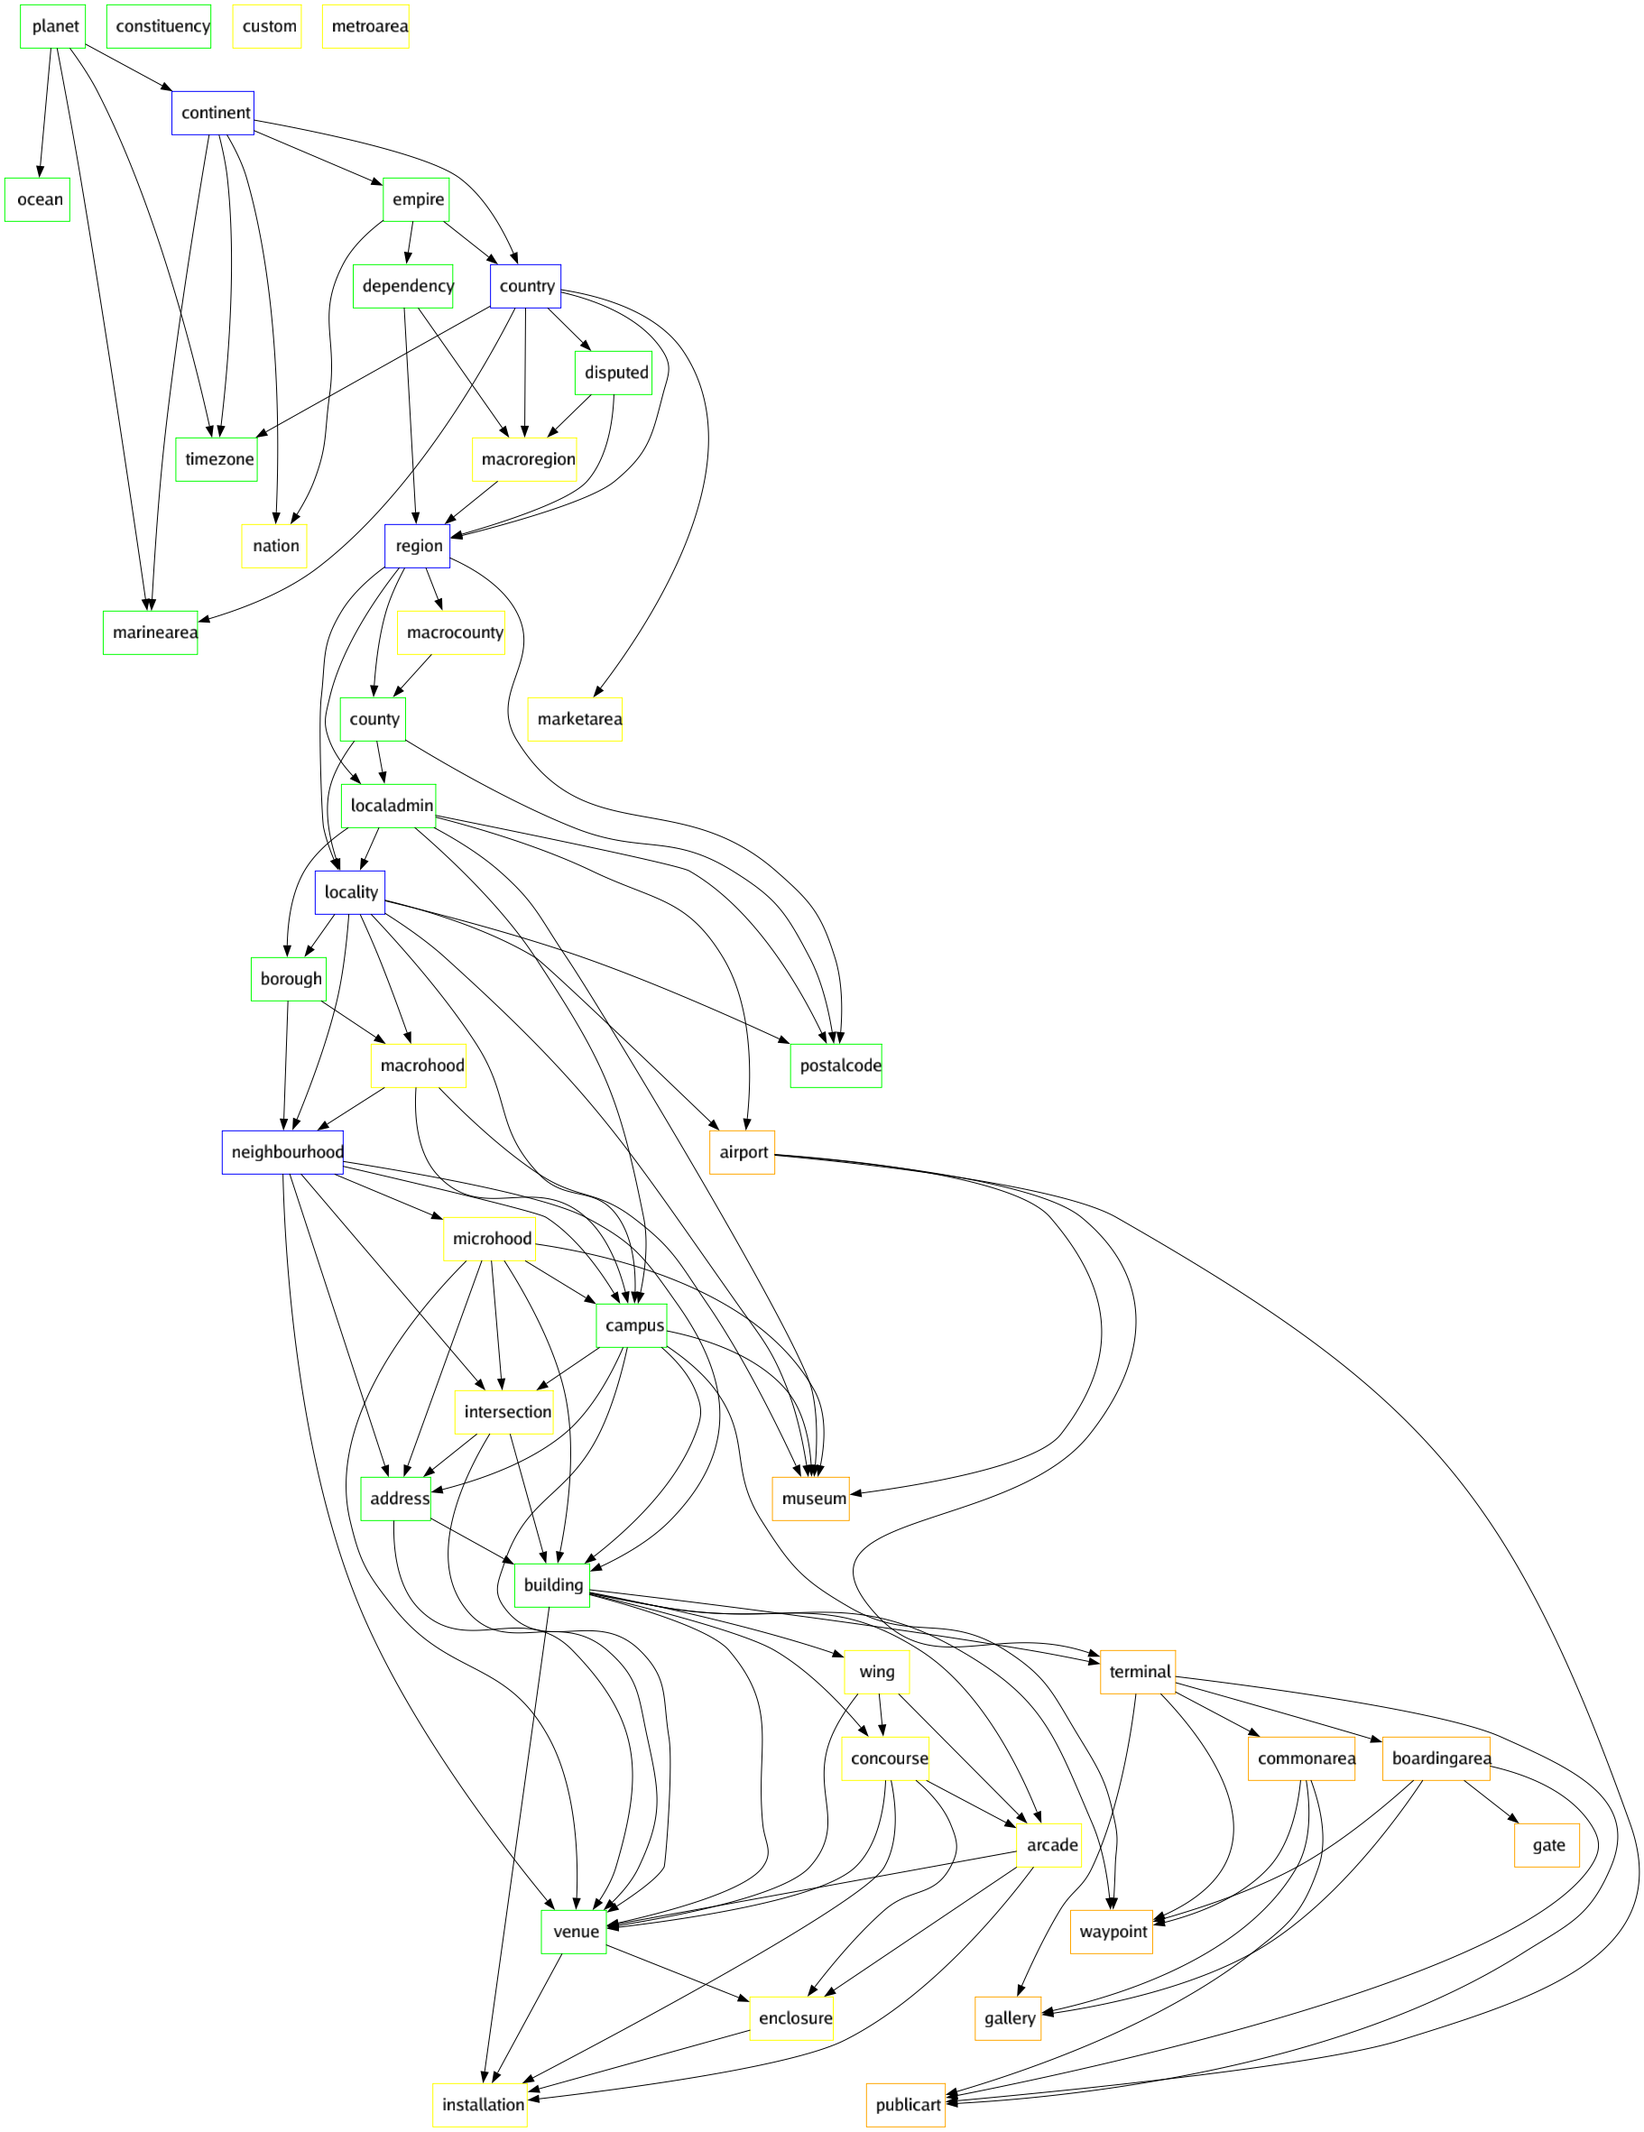
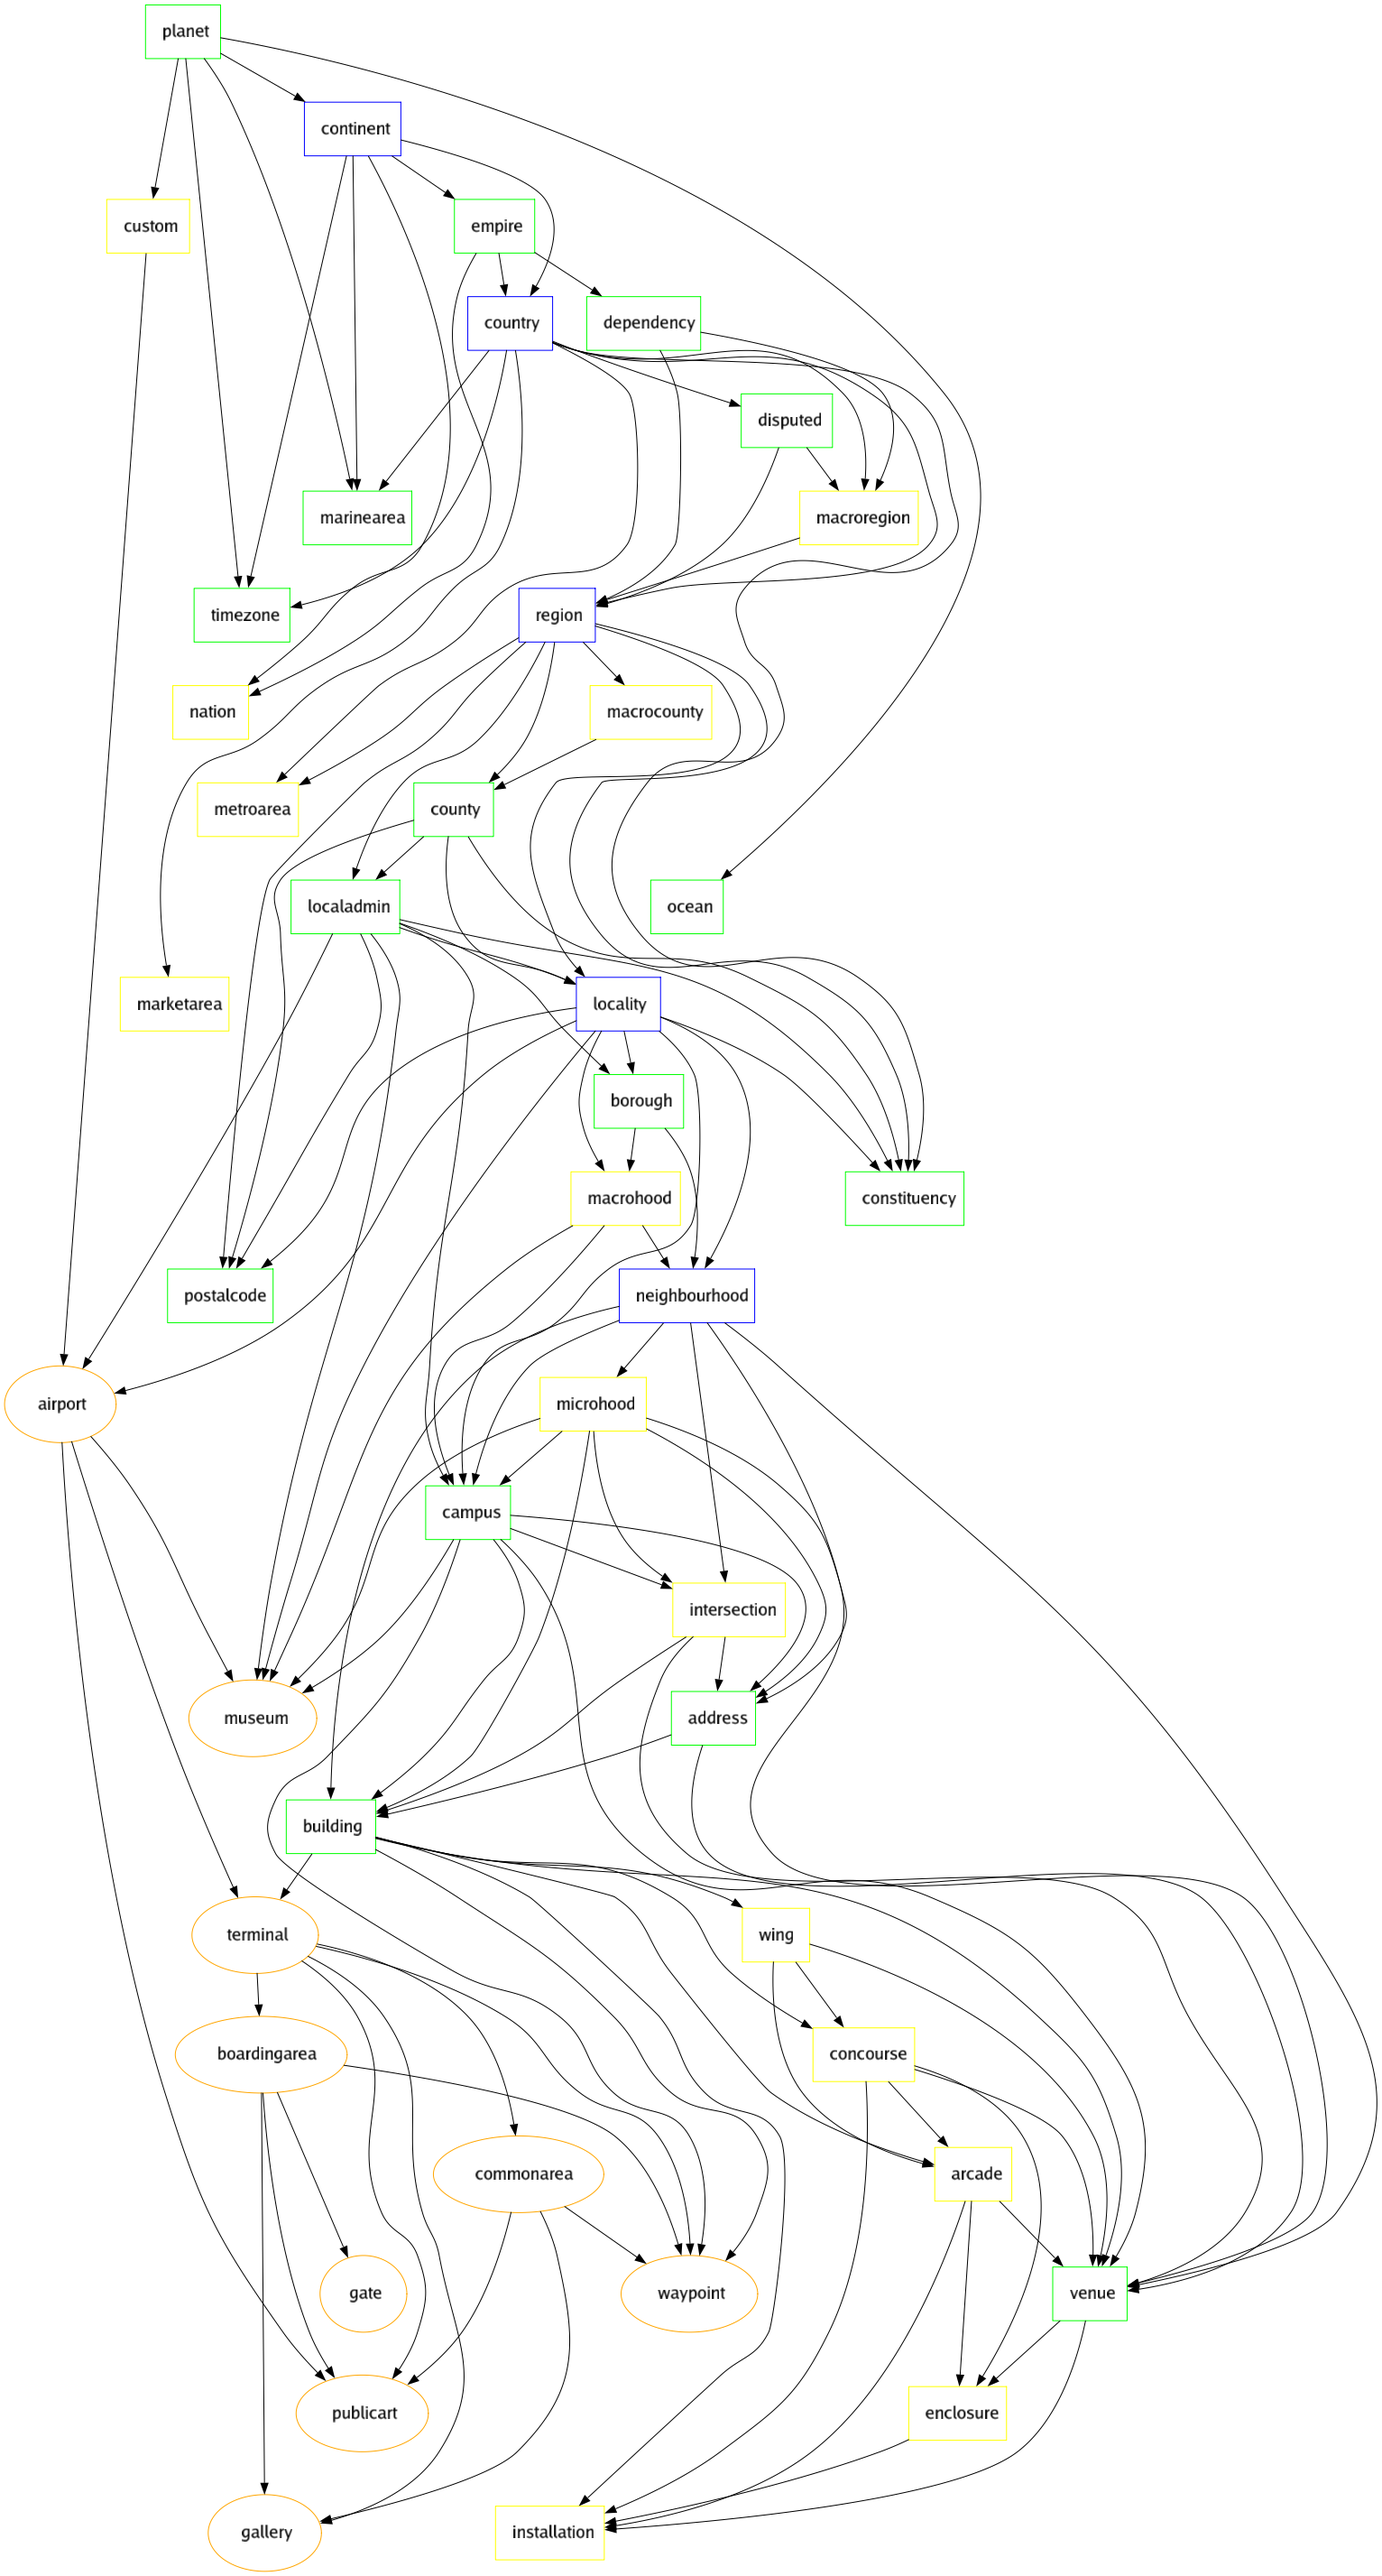
rebuild spec; update tests

diff --git a/specification_test.go b/specification_test.go
@@ -1,7 +1,7 @@
 package placetypes
 
 import (
-	"fmt"
+	_ "fmt"
 	"testing"
 
 	wof_placetypes "github.com/whosonfirst/go-whosonfirst-placetypes"	
@@ -57,7 +57,7 @@ func TestSFOMuseumPlacetypeSpecification(t *testing.T) {
 	a := spec.AncestorsForRoles(gate_pt, roles)
 	count_a := len(a)
 
-	expected_count := 23
+	expected_count := 24
 	
 	if count_a != expected_count {
 		t.Fatalf("Unexpected ancestors for gate. Expected %d, but got %d", expected_count, count_a)
@@ -75,17 +75,21 @@ func TestSFOMuseumPlacetypeSpecification(t *testing.T) {
 		t.Fatalf("Expected terminal to be descendant of county")
 	}
 
-	airport_pt, err := spec.GetPlacetypeByName("airport")
-
-	if err != nil {
-		t.Fatalf("Failed to get airport placetype, %v", err)
-	}
-	
 	roles_custom := []string{
 		wof_placetypes.CUSTOM_ROLE,
 	}
 
-	custom_pt := spec.DescendantsForRoles(airport_pt, roles_custom)
-	
-	fmt.Println(custom_pt)
+	planet_pt, _ := spec.GetPlacetypeByName("planet")
+
+	if err != nil {
+		t.Fatalf("Failed to get planet placetype, %v", err)
+	}
+		
+	custom_pt := spec.DescendantsForRoles(planet_pt, roles_custom)
+
+	expected_custom := 9
+
+	if len(custom_pt) != expected_custom {
+		t.Fatalf("Unexpected placetypes for custom role. Expected %d but got %d", expected_custom, len(custom_pt))
+	}
 }
